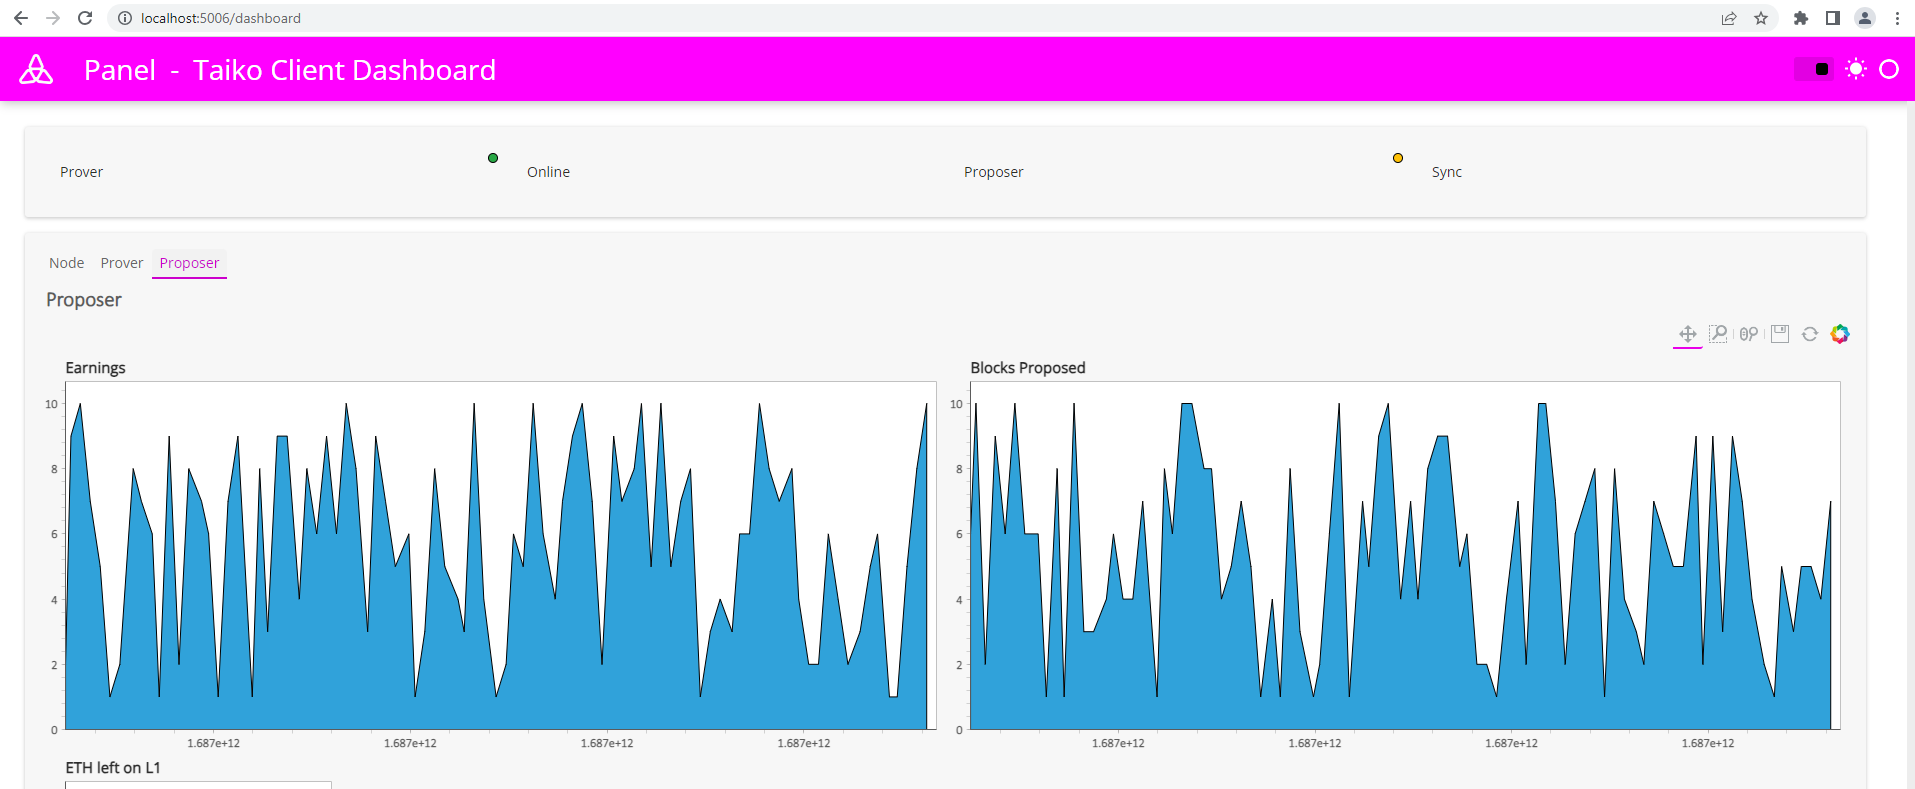
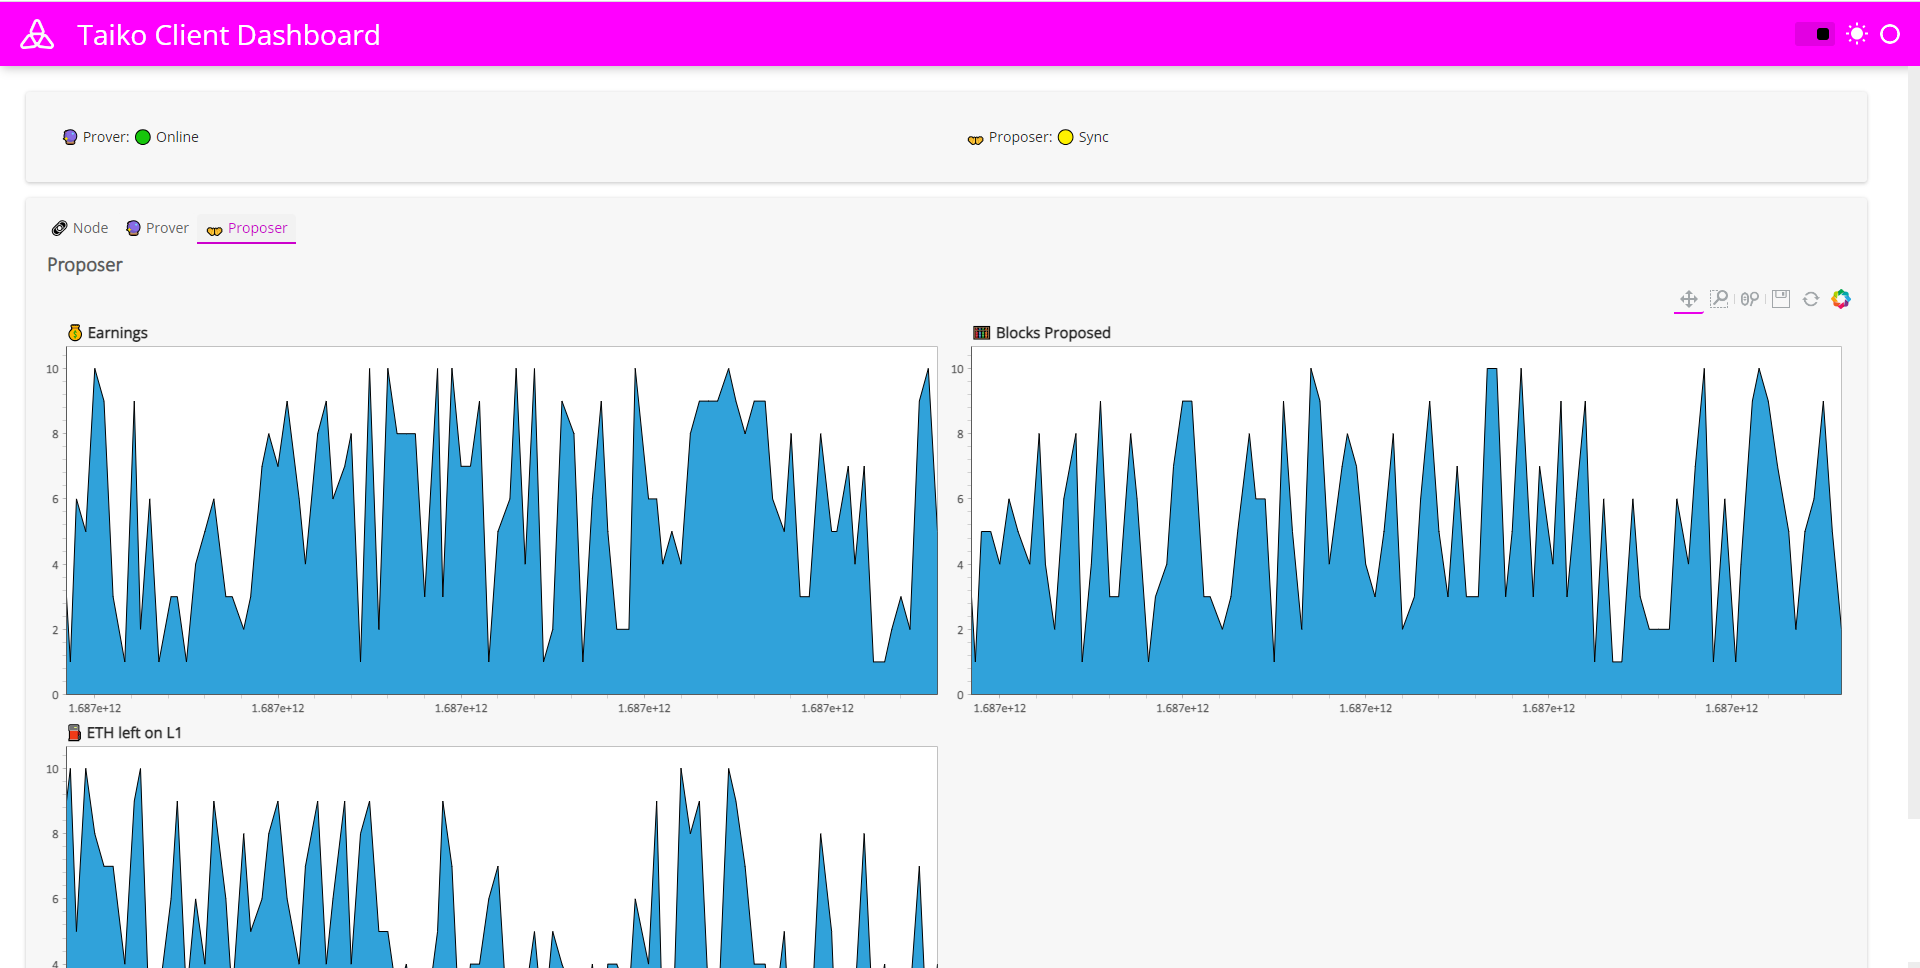
Add files via upload

diff --git a/app/utils/node.py b/app/utils/node.py
@@ -32,7 +32,7 @@ class Node(param.Parameterized):
     #df.set_index('timestamp', inplace=True)
 
     buffer = Buffer(data=df, length=120)
-    
+
     @param.depends('mock_param')
     def get_curves(self,data):
         return hv.Layout( 
@@ -40,25 +40,25 @@ class Node(param.Parameterized):
                 hv.Curve(data[["timestamp","system"]], label='system') * 
                 hv.Curve(data[["timestamp","iowait"]], label='iowait') *
                 hv.Curve(data[["timestamp","geth"]], label='geth') 
-            ).opts(title="CPU", responsive=True, height=400,legend_position='top_left', labelled=[]).opts(opts.Curve(tools=['vline'],)) +
+            ).opts(title="💻 CPU", responsive=True, height=400,legend_position='top_left', labelled=[]).opts(opts.Curve(tools=['vline'],)) +
             (
                 hv.Curve(data[["timestamp","alloc"]], label='alloc') *
                 hv.Curve(data[["timestamp","used"]], label='used') *
                 hv.Curve(data[["timestamp","held"]], label='held') 
-            ).opts(title="Memory", responsive=True, height=400,legend_position='top_left', labelled=[] ).opts(opts.Curve(tools=['vline'],)) +
+            ).opts(title="💾 Memory", responsive=True, height=400,legend_position='top_left', labelled=[] ).opts(opts.Curve(tools=['vline'],)) +
             (
                 hv.Area(data[["timestamp","read"]], label='read') *
                 hv.Area(data[["timestamp","write"]], label='write') 
-            ).opts(title="Disk", responsive=True, height=400,legend_position='top_left', labelled=[]).opts(opts.Area(tools=['vline'],fill_alpha=0.5)) +
+            ).opts(title="💽 Disk", responsive=True, height=400,legend_position='top_left', labelled=[]).opts(opts.Area(tools=['vline'],fill_alpha=0.5)) +
             (
                 hv.Curve(data[["timestamp","ingress"]], label='ingress') * 
                 hv.Curve(data[["timestamp","egress"]], label='egress') 
-            ).opts(title="Traffic", responsive=True, height=400,legend_position='top_left', labelled=[]).opts(opts.Curve(tools=['vline'],)) +
+            ).opts(title="🚗 Traffic", responsive=True, height=400,legend_position='top_left', labelled=[]).opts(opts.Curve(tools=['vline'],)) +
             (
                 hv.Curve(data[["timestamp","peers"]], label='peers') * 
                 hv.Curve(data[["timestamp","dials"]], label='dials') *
                 hv.Curve(data[["timestamp","serves"]], label='serves') 
-            ).opts(title="Peers", responsive=True, height=400,legend_position='top_left', labelled=[]).opts(opts.Curve(tools=['vline'],)),
+            ).opts(title="🌍 Peers", responsive=True, height=400,legend_position='top_left', labelled=[]).opts(opts.Curve(tools=['vline'],)),
         ).cols(3)
 
     @gen.coroutine

diff --git a/app/utils/prover.py b/app/utils/prover.py
@@ -26,10 +26,10 @@ class Prover(param.Parameterized):
     @param.depends('mock_param')    
     def get_info(self,data):
         return hv.Layout( 
-            hv.Area(label='Earnings', data=data[["timestamp","earnings"]]).opts(height=400, responsive=True, title="Earnings", labelled=[]) +
-            hv.Area(label='Proofs Generated', data=data[["timestamp","proofs_generated"]]).opts(height=400, responsive=True, title="Proofs Generated", labelled=[]) +
-            hv.Area(label='ETH left on L1', data=data[["timestamp","eth_left_l1"]]).opts(height=400, responsive=True, title="ETH left on L1", labelled=[]) +
-            hv.Area(label='Average proving time', data=data[["timestamp","proving_time"]]).opts(height=400, responsive=True, title="Average proving time", labelled=[])
+            hv.Area(label='Earnings', data=data[["timestamp","earnings"]]).opts(height=400, responsive=True, title="💰 Earnings", labelled=[]) +
+            hv.Area(label='Proofs Generated', data=data[["timestamp","proofs_generated"]]).opts(height=400, responsive=True, title="🧮 Proofs Generated", labelled=[]) +
+            hv.Area(label='ETH left on L1', data=data[["timestamp","eth_left_l1"]]).opts(height=400, responsive=True, title="⛽ ETH left on L1", labelled=[]) +
+            hv.Area(label='Average proving time', data=data[["timestamp","proving_time"]]).opts(height=400, responsive=True, title="🕢 Average proving time", labelled=[])
         ).cols(2)
 
     @gen.coroutine

diff --git a/app/utils/proposer.py b/app/utils/proposer.py
@@ -26,9 +26,9 @@ class Proposer(param.Parameterized):
     @param.depends('mock_param')    
     def get_info(self,data):
         return hv.Layout( 
-                hv.Area(label='Earnings', data=data[["timestamp","earnings"]]).opts(height=400, responsive=True, title="Earnings", labelled=[]) + 
-                hv.Area(label='Blocks Proposed', data=data[["timestamp","blocks_proposed"]]).opts(height=400, responsive=True, title="Blocks Proposed", labelled=[]) +
-                hv.Area(label='ETH left on L1', data=data[["timestamp","eth_left_l1"]]).opts(height=400, responsive=True, title="ETH left on L1", labelled=[])
+                hv.Area(label='Earnings', data=data[["timestamp","earnings"]]).opts(height=400, responsive=True, title="💰 Earnings", labelled=[]) + 
+                hv.Area(label='Blocks Proposed', data=data[["timestamp","blocks_proposed"]]).opts(height=400, responsive=True, title="🧮 Blocks Proposed", labelled=[]) +
+                hv.Area(label='ETH left on L1', data=data[["timestamp","eth_left_l1"]]).opts(height=400, responsive=True, title="⛽ ETH left on L1", labelled=[])
         ).cols(2)
 
     @gen.coroutine

diff --git a/app/dashboard.py b/app/dashboard.py
@@ -19,7 +19,7 @@ proposer_status = pn.Column('Proposer', proposer_indicator, 'Sync')
 
 
 pn.template.FastListTemplate(
-    site="Panel", 
+    #site="Panel", 
     title="Taiko Client Dashboard", 
     logo='doc/taiko-icon-mono.png',
     favicon='doc/taiko-icon-wht.png',
@@ -30,11 +30,11 @@ pn.template.FastListTemplate(
     sidebar=[],
     collapsed_sidebar=True, 
     main=[
-        pn.Row('Prover', prover_indicator, 'Online', 'Proposer', proposer_indicator, 'Sync'),
+        pn.Row('🔮 Prover: 🟢 Online', '👐 Proposer: 🟡 Sync'),
         pn.Tabs(
-            ('Node', node.view),
-            ('Prover', prover.view),
-            ('Proposer', proposer.view),
+            ('🔗 Node', node.view),
+            ('🔮 Prover', prover.view),
+            ('👐 Proposer', proposer.view),
         )
     ]
 ).servable();
